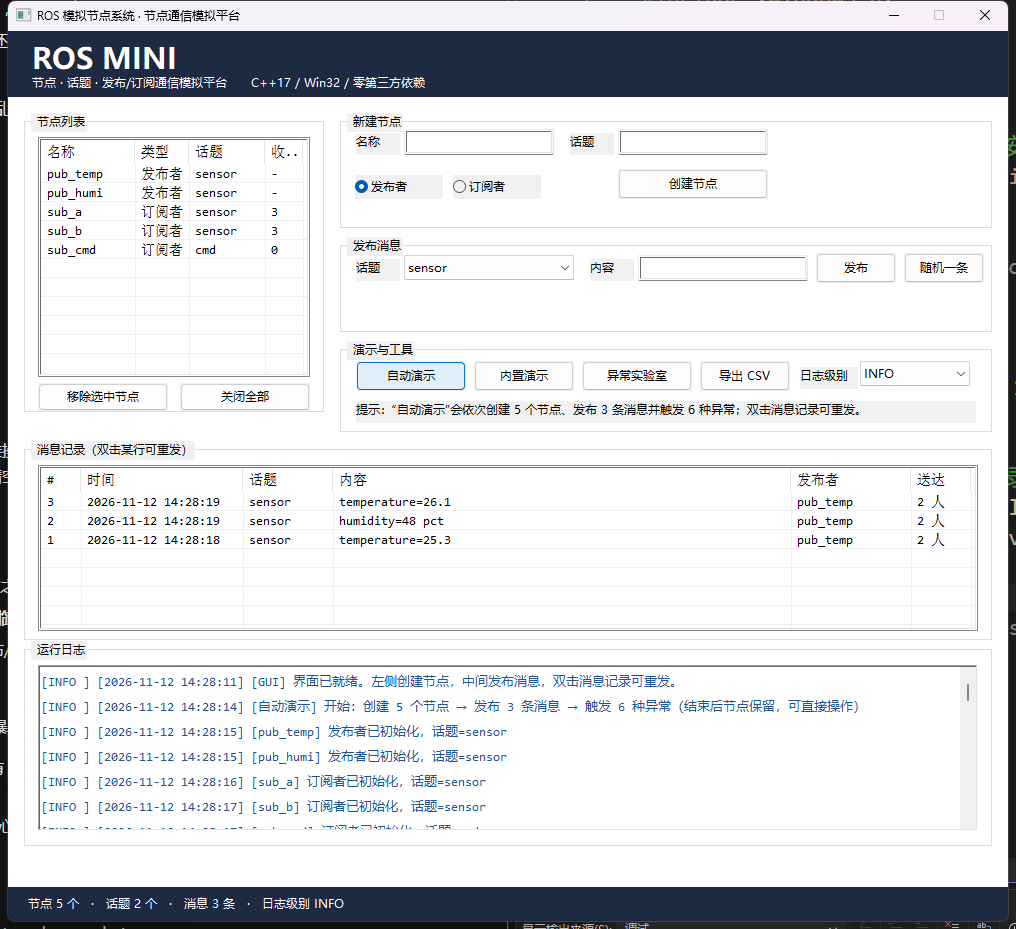
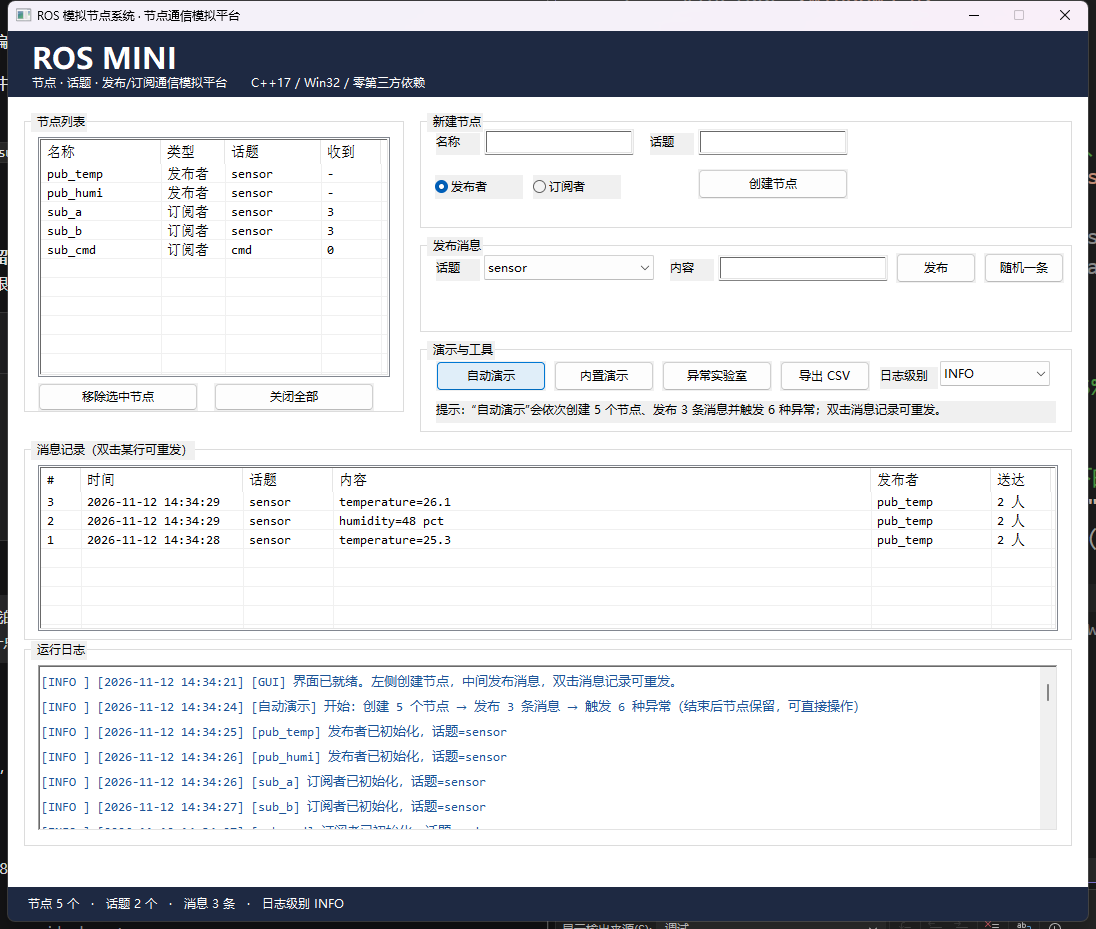
style: 加宽节点列表与整体窗口，避免列内容被截断
窗口 1000→1080；节点列表 300→380，列宽调整为 120/64/96/60；消息记录与日志区同步加宽，右侧控件整体右移 80px。

diff --git a/src/GuiApp.cpp b/src/GuiApp.cpp
@@ -28,7 +28,7 @@ namespace {
 
 // ---------- 设计尺寸（96 DPI 基准，运行时按 DPI 缩放） ----------
 
-constexpr int kDesignWidth = 1000;
+constexpr int kDesignWidth = 1080;
 constexpr int kDesignHeight = 890;
 
 constexpr COLORREF kHeaderColor = RGB(30, 41, 66);
@@ -319,81 +319,81 @@ HWND GuiApp::createChild(const wchar_t* className, const wchar_t* text, DWORD st
 
 void GuiApp::createControls() {
     // ---- 左侧：节点列表（ListView 报表模式） ----
-    createChild(L"BUTTON", L" 节点列表", BS_GROUPBOX, 0, 16, 82, 300, 300, 0);
+    createChild(L"BUTTON", L" 节点列表", BS_GROUPBOX, 0, 16, 82, 380, 300, 0);
     nodeList_ = createChild(L"SysListView32", L"",
                             WS_BORDER | LVS_REPORT | LVS_SINGLESEL | LVS_SHOWSELALWAYS,
-                            WS_EX_CLIENTEDGE, 30, 106, 272, 240, kIdNodeList);
+                            WS_EX_CLIENTEDGE, 30, 106, 352, 240, kIdNodeList);
     ListView_SetExtendedListViewStyle(nodeList_, LVS_EX_FULLROWSELECT | LVS_EX_GRIDLINES |
                                                     LVS_EX_DOUBLEBUFFER);
-    addColumn(nodeList_, 0, L"名称", scale(94));
-    addColumn(nodeList_, 1, L"类型", scale(54));
-    addColumn(nodeList_, 2, L"话题", scale(76));
-    addColumn(nodeList_, 3, L"收到", scale(38));
+    addColumn(nodeList_, 0, L"名称", scale(120));
+    addColumn(nodeList_, 1, L"类型", scale(64));
+    addColumn(nodeList_, 2, L"话题", scale(96));
+    addColumn(nodeList_, 3, L"收到", scale(60));
 
-    createChild(L"BUTTON", L"移除选中节点", BS_PUSHBUTTON, 0, 30, 352, 130, 28, kIdRemoveNode);
-    createChild(L"BUTTON", L"关闭全部", BS_PUSHBUTTON, 0, 172, 352, 130, 28, kIdShutdownAll);
+    createChild(L"BUTTON", L"移除选中节点", BS_PUSHBUTTON, 0, 30, 352, 160, 28, kIdRemoveNode);
+    createChild(L"BUTTON", L"关闭全部", BS_PUSHBUTTON, 0, 206, 352, 160, 28, kIdShutdownAll);
 
     // ---- 右上：新建节点 ----
-    createChild(L"BUTTON", L" 新建节点", BS_GROUPBOX, 0, 332, 82, 652, 116, 0);
-    createChild(L"STATIC", L"名称", SS_LEFT, 0, 348, 102, 44, 22, 0);
+    createChild(L"BUTTON", L" 新建节点", BS_GROUPBOX, 0, 412, 82, 652, 116, 0);
+    createChild(L"STATIC", L"名称", SS_LEFT, 0, 428, 102, 44, 22, 0);
     createChild(L"EDIT", L"", WS_BORDER | ES_AUTOHSCROLL, WS_EX_CLIENTEDGE,
-                396, 98, 150, 26, kIdNameEdit);
-    createChild(L"STATIC", L"话题", SS_LEFT, 0, 562, 102, 44, 22, 0);
+                476, 98, 150, 26, kIdNameEdit);
+    createChild(L"STATIC", L"话题", SS_LEFT, 0, 642, 102, 44, 22, 0);
     createChild(L"EDIT", L"", WS_BORDER | ES_AUTOHSCROLL, WS_EX_CLIENTEDGE,
-                610, 98, 150, 26, kIdTopicEdit);
+                690, 98, 150, 26, kIdTopicEdit);
     HWND radioPublisher = createChild(L"BUTTON", L"发布者", BS_AUTORADIOBUTTON | WS_GROUP,
-                                      0, 347, 144, 88, 24, kIdRadioPublisher);
-    createChild(L"BUTTON", L"订阅者", BS_AUTORADIOBUTTON, 0, 445, 144, 88, 24, kIdRadioSubscriber);
+                                      0, 427, 144, 88, 24, kIdRadioPublisher);
+    createChild(L"BUTTON", L"订阅者", BS_AUTORADIOBUTTON, 0, 525, 144, 88, 24, kIdRadioSubscriber);
     SendMessageW(radioPublisher, BM_SETCHECK, BST_CHECKED, 0);
-    createChild(L"BUTTON", L"创建节点", BS_PUSHBUTTON, 0, 610, 138, 150, 30, kIdCreateNode);
+    createChild(L"BUTTON", L"创建节点", BS_PUSHBUTTON, 0, 690, 138, 150, 30, kIdCreateNode);
 
     // ---- 右中：发布消息 ----
-    createChild(L"BUTTON", L" 发布消息", BS_GROUPBOX, 0, 332, 206, 652, 96, 0);
-    createChild(L"STATIC", L"话题", SS_LEFT, 0, 348, 228, 44, 22, 0);
+    createChild(L"BUTTON", L" 发布消息", BS_GROUPBOX, 0, 412, 206, 652, 96, 0);
+    createChild(L"STATIC", L"话题", SS_LEFT, 0, 428, 228, 44, 22, 0);
     topicsCombo_ = createChild(L"COMBOBOX", L"", CBS_DROPDOWNLIST | WS_VSCROLL,
-                               0, 396, 224, 170, 220, kIdPublishTopic);
-    createChild(L"STATIC", L"内容", SS_LEFT, 0, 582, 228, 44, 22, 0);
+                               0, 476, 224, 170, 220, kIdPublishTopic);
+    createChild(L"STATIC", L"内容", SS_LEFT, 0, 662, 228, 44, 22, 0);
     createChild(L"EDIT", L"", WS_BORDER | ES_AUTOHSCROLL, WS_EX_CLIENTEDGE,
-                630, 224, 170, 26, kIdPublishContent);
-    createChild(L"BUTTON", L"发布", BS_PUSHBUTTON, 0, 808, 222, 80, 30, kIdPublishButton);
-    createChild(L"BUTTON", L"随机一条", BS_PUSHBUTTON, 0, 896, 222, 80, 30, kIdRandomButton);
+                710, 224, 170, 26, kIdPublishContent);
+    createChild(L"BUTTON", L"发布", BS_PUSHBUTTON, 0, 888, 222, 80, 30, kIdPublishButton);
+    createChild(L"BUTTON", L"随机一条", BS_PUSHBUTTON, 0, 976, 222, 80, 30, kIdRandomButton);
 
     // ---- 右下：演示与工具 ----
-    createChild(L"BUTTON", L" 演示与工具", BS_GROUPBOX, 0, 332, 310, 652, 92, 0);
+    createChild(L"BUTTON", L" 演示与工具", BS_GROUPBOX, 0, 412, 310, 652, 92, 0);
     autoDemoButton_ = createChild(L"BUTTON", L"自动演示", BS_PUSHBUTTON, 0,
-                                  348, 330, 110, 30, kIdAutoDemoButton);
-    createChild(L"BUTTON", L"内置演示", BS_PUSHBUTTON, 0, 466, 330, 100, 30, kIdDemoButton);
-    createChild(L"BUTTON", L"异常实验室", BS_PUSHBUTTON, 0, 574, 330, 110, 30, kIdLabButton);
-    createChild(L"BUTTON", L"导出 CSV", BS_PUSHBUTTON, 0, 692, 330, 90, 30, kIdExportButton);
-    createChild(L"STATIC", L"日志级别", SS_LEFT, 0, 792, 336, 58, 22, 0);
+                                  428, 330, 110, 30, kIdAutoDemoButton);
+    createChild(L"BUTTON", L"内置演示", BS_PUSHBUTTON, 0, 546, 330, 100, 30, kIdDemoButton);
+    createChild(L"BUTTON", L"异常实验室", BS_PUSHBUTTON, 0, 654, 330, 110, 30, kIdLabButton);
+    createChild(L"BUTTON", L"导出 CSV", BS_PUSHBUTTON, 0, 772, 330, 90, 30, kIdExportButton);
+    createChild(L"STATIC", L"日志级别", SS_LEFT, 0, 872, 336, 58, 22, 0);
     logLevelCombo_ = createChild(L"COMBOBOX", L"", CBS_DROPDOWNLIST | WS_VSCROLL,
-                                 0, 852, 330, 110, 160, kIdLogLevel);
+                                 0, 932, 330, 110, 160, kIdLogLevel);
     SendMessageW(logLevelCombo_, CB_ADDSTRING, 0, reinterpret_cast<LPARAM>(L"INFO"));
     SendMessageW(logLevelCombo_, CB_ADDSTRING, 0, reinterpret_cast<LPARAM>(L"WARN"));
     SendMessageW(logLevelCombo_, CB_ADDSTRING, 0, reinterpret_cast<LPARAM>(L"ERROR"));
     SendMessageW(logLevelCombo_, CB_SETCURSEL, 0, 0);
     createChild(L"STATIC", L"提示：“自动演示”会依次创建 5 个节点、发布 3 条消息并触发 6 种异常；双击消息记录可重发。",
-                SS_LEFT, 0, 348, 370, 620, 22, 0);
+                SS_LEFT, 0, 428, 370, 620, 22, 0);
 
     // ---- 消息记录 ----
-    createChild(L"BUTTON", L" 消息记录（双击某行可重发）", BS_GROUPBOX, 0, 16, 410, 968, 200, 0);
+    createChild(L"BUTTON", L" 消息记录（双击某行可重发）", BS_GROUPBOX, 0, 16, 410, 1048, 200, 0);
     messageList_ = createChild(L"SysListView32", L"",
                                WS_BORDER | LVS_REPORT | LVS_SINGLESEL | LVS_SHOWSELALWAYS,
-                               WS_EX_CLIENTEDGE, 30, 434, 940, 166, kIdMessageList);
+                               WS_EX_CLIENTEDGE, 30, 434, 1020, 166, kIdMessageList);
     ListView_SetExtendedListViewStyle(messageList_, LVS_EX_FULLROWSELECT | LVS_EX_GRIDLINES |
                                                        LVS_EX_DOUBLEBUFFER);
     addColumn(messageList_, 0, L"#", scale(40));
     addColumn(messageList_, 1, L"时间", scale(162));
     addColumn(messageList_, 2, L"话题", scale(90));
-    addColumn(messageList_, 3, L"内容", scale(458));
+    addColumn(messageList_, 3, L"内容", scale(538));
     addColumn(messageList_, 4, L"发布者", scale(120));
     addColumn(messageList_, 5, L"送达", scale(60));
 
     // ---- 运行日志 ----
-    createChild(L"BUTTON", L" 运行日志", BS_GROUPBOX, 0, 16, 610, 968, 206, 0);
+    createChild(L"BUTTON", L" 运行日志", BS_GROUPBOX, 0, 16, 610, 1048, 206, 0);
     logEdit_ = createChild(richEdit_ ? L"RICHEDIT50W" : L"EDIT", L"",
                            WS_VSCROLL | ES_MULTILINE | ES_AUTOVSCROLL | ES_READONLY,
-                           WS_EX_CLIENTEDGE, 30, 634, 940, 166, kIdLogEdit);
+                           WS_EX_CLIENTEDGE, 30, 634, 1020, 166, kIdLogEdit);
     if (richEdit_) {
         SendMessageW(logEdit_, EM_EXLIMITTEXT, 0, static_cast<LPARAM>(200000));
     }
